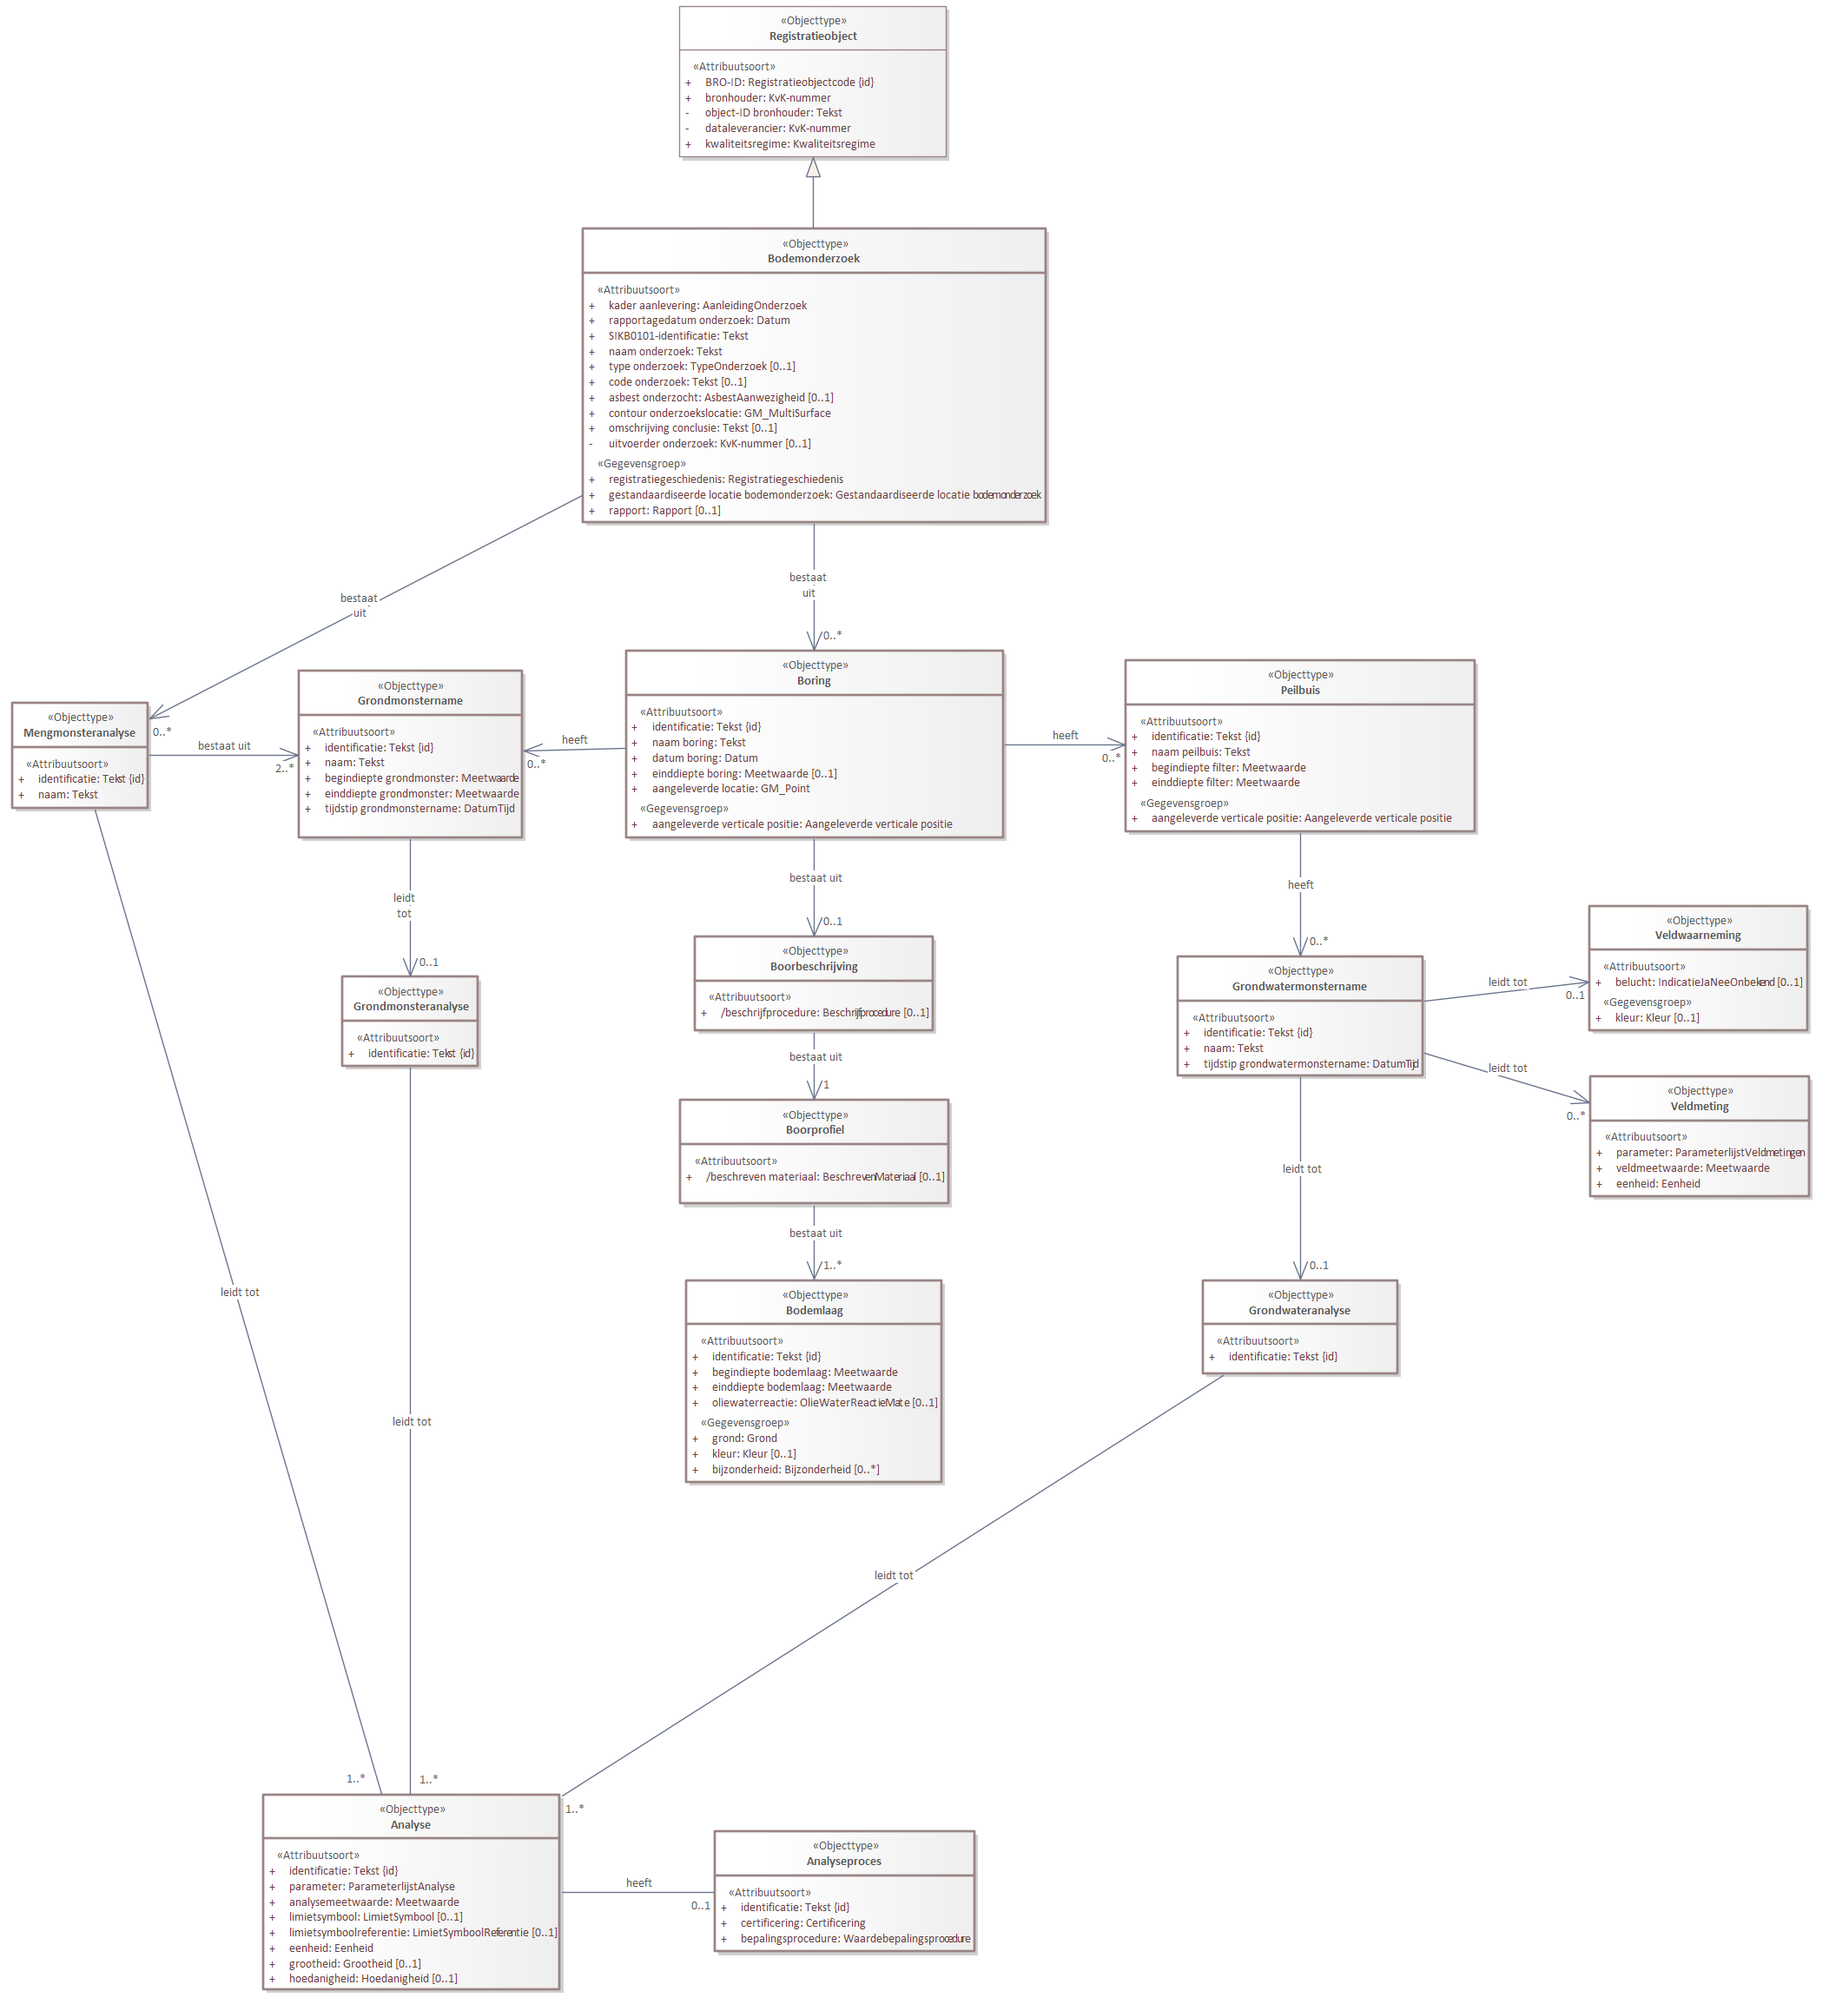
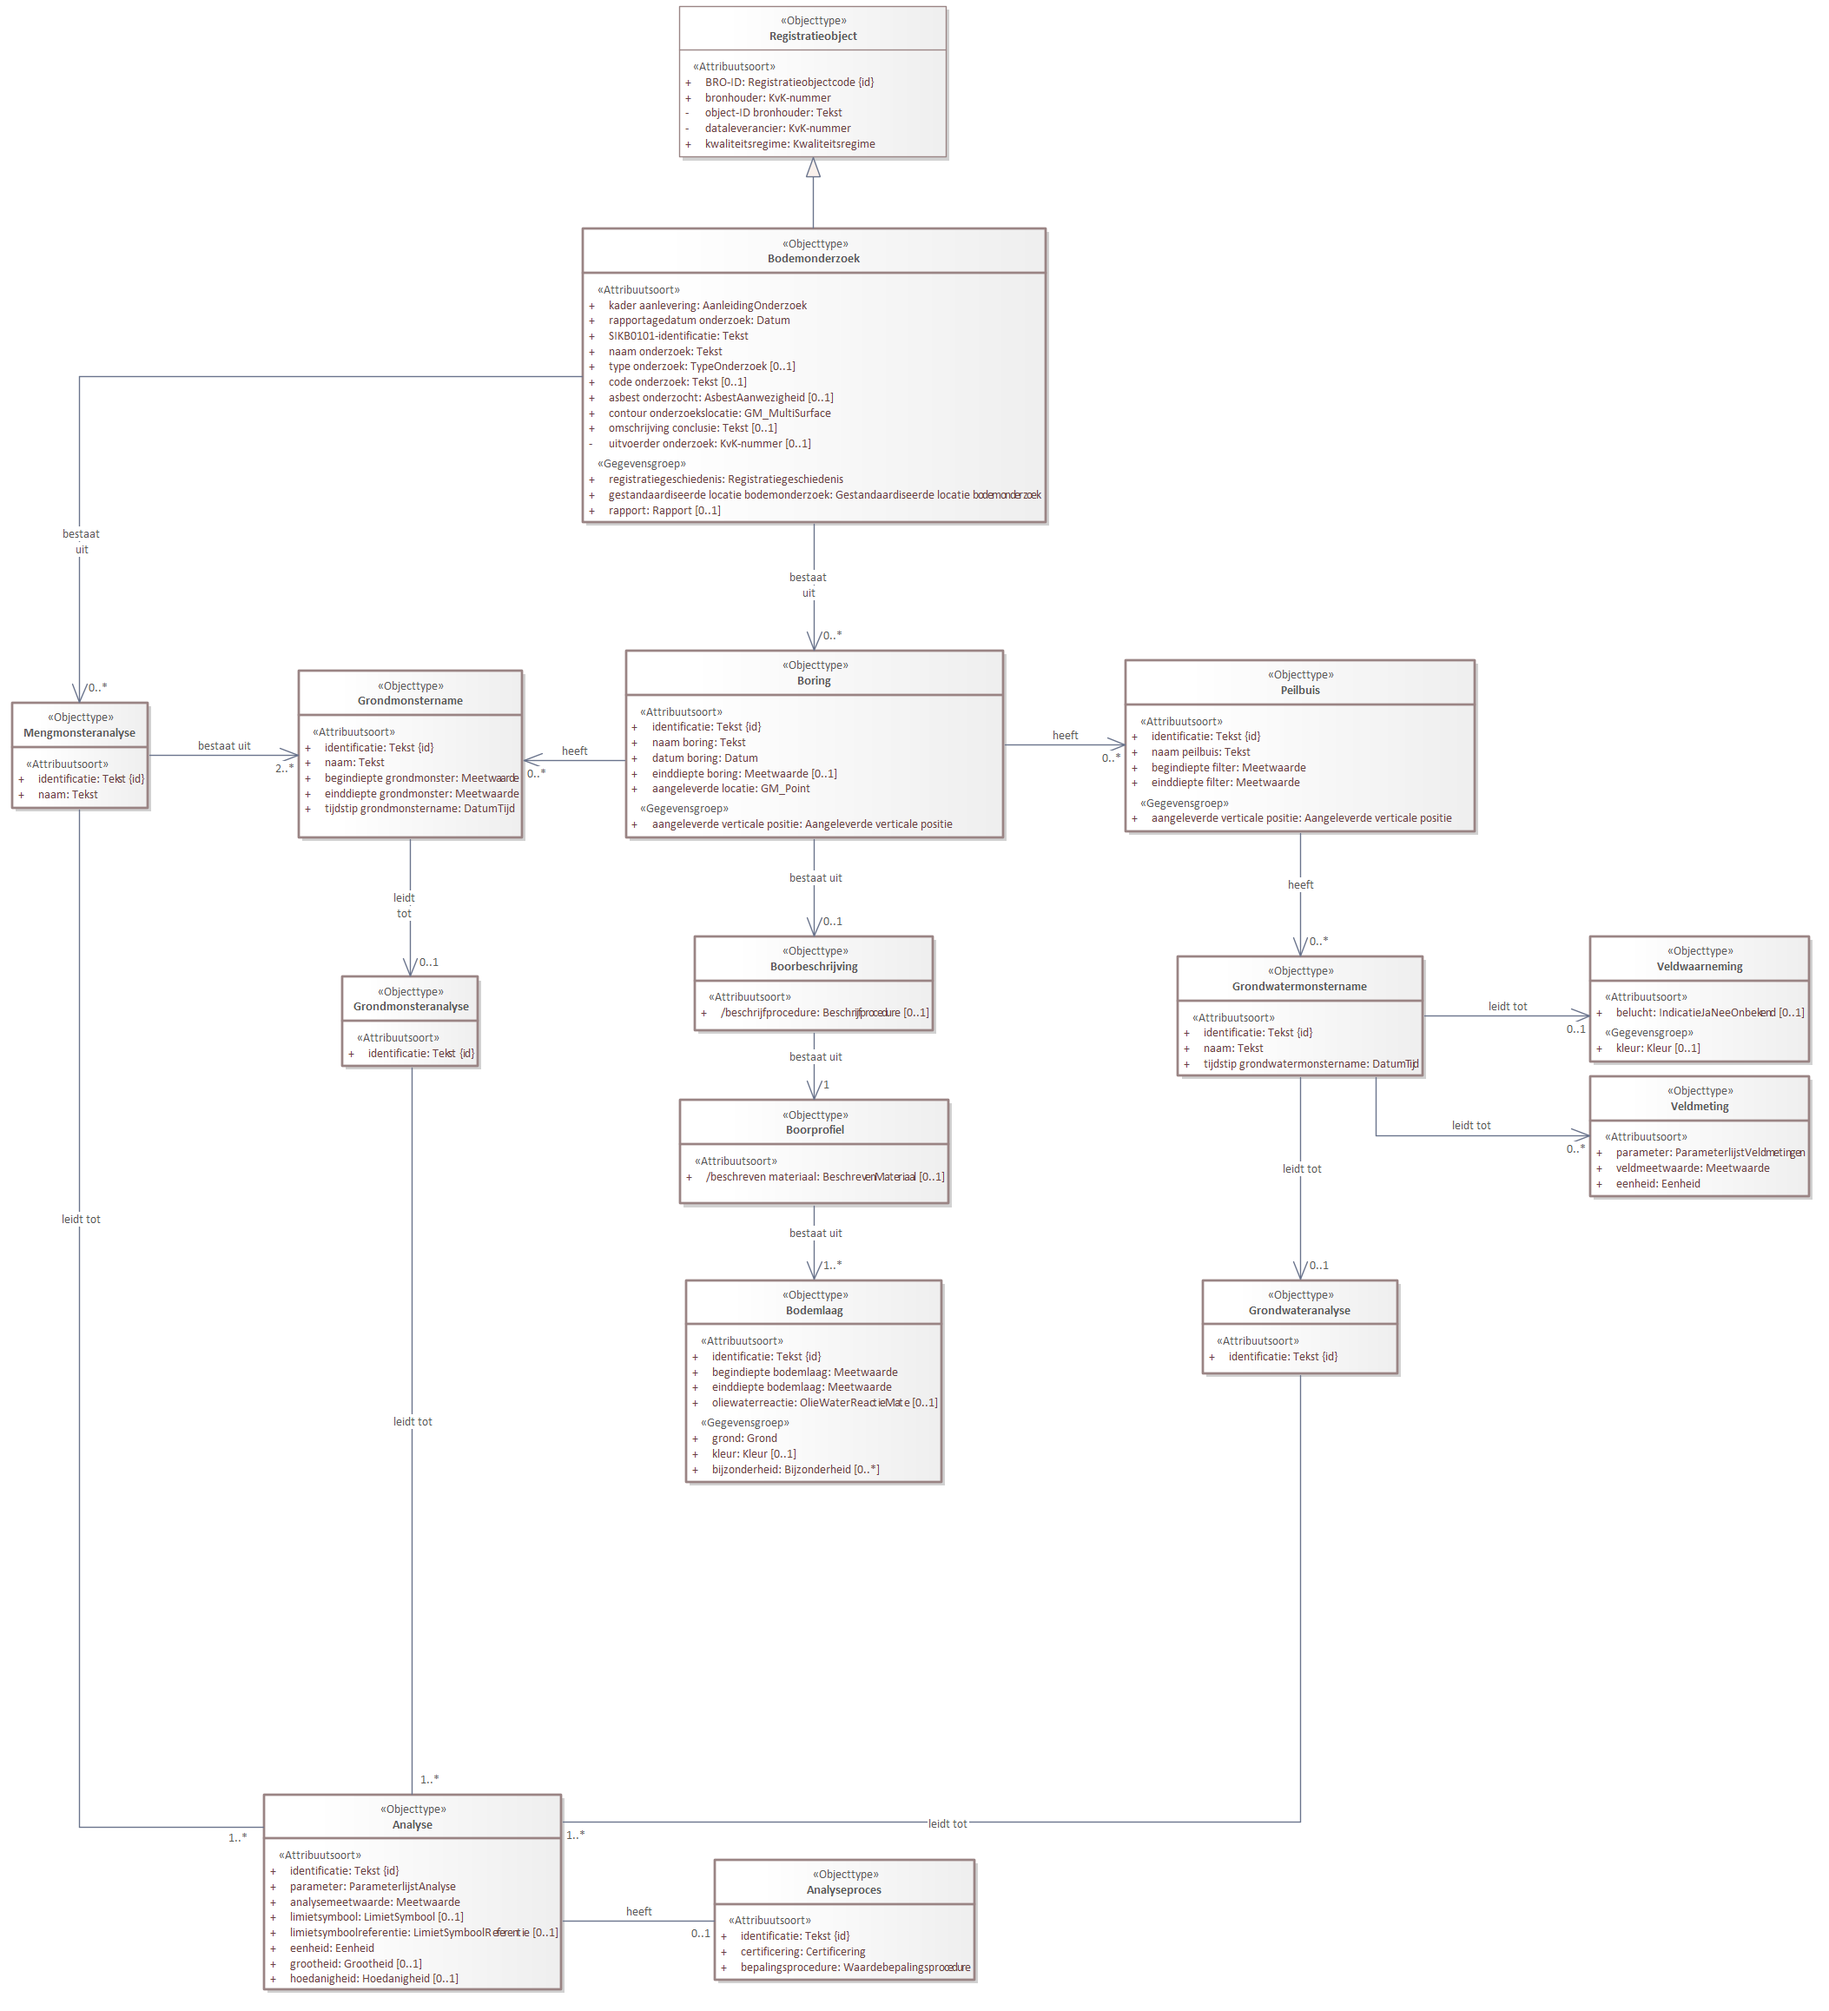
Conceptualmodel-MilieuhygienischbodemonderzoekSAD-0.2-1-20230126-20230622-112002

diff --git a/data/SAD-cat.msword.html b/data/SAD-cat.msword.html
@@ -15,7 +15,7 @@
    <body>
       <p>Conceptual model/Milieuhygienisch bodemonderzoek SAD/20230126</p>
       <p>Imvertor: 2.0.0</p>
-      <p>Model release: Conceptualmodel-MilieuhygienischbodemonderzoekSAD-0.2-1-20230126-20230622-111611</p>
+      <p>Model release: Conceptualmodel-MilieuhygienischbodemonderzoekSAD-0.2-1-20230126-20230622-112002</p>
       <hr>
       <section>
          <h1>Artikel 1 Definitie van registratieobject, entiteiten en attributen</h1>
@@ -66,7 +66,7 @@
          <section>
             <h2>Het domeinmodel</h2>
             <section id="">
-               <div class="imageinfo overview"><img src="Images/EAID_FABA90F8_223C_433d_BAE3_74F87B3DC220.png" usemap="#imagemap-EAID_FABA90F8_223C_433d_BAE3_74F87B3DC220" alt="Diagram &#xA;                        &#xA;                     "><map name="imagemap-EAID_FABA90F8_223C_433d_BAE3_74F87B3DC220"><area shape="rect" alt="Analyseproces" coords="823,2108,1123,2247" href="#graph_EAID_89FCADC6_B091_492b_94BD_37324C7637EA"><area shape="rect" alt="Analyse" coords="303,2066,645,2291" href="#graph_EAID_AE9CD58D_588C_44cf_A7B7_09EDB181B001"><area shape="rect" alt="Grondwateranalyse" coords="1385,1474,1610,1582" href="#graph_EAID_50237BC0_6FD9_482a_841F_A44137C00FCA"><area shape="rect" alt="Grondmonsteranalyse" coords="394,1124,551,1228" href="#graph_EAID_DFC0DB4F_7DC8_4920_917A_907819C6EC19"><area shape="rect" alt="Boorprofiel" coords="783,1266,1093,1386" href="#graph_EAID_6CF3D55E_1BD5_4108_BEA5_8B69EB2D2097"><area shape="rect" alt="Boorbeschrijving" coords="800,1078,1075,1187" href="#graph_EAID_080E44E6_527C_42db_BCF3_7400257377C2"><area shape="rect" alt="Veldmeting" coords="1831,1239,2084,1378" href="#graph_EAID_C348E314_A61B_43a0_AFED_083DA812EC5F"><area shape="rect" alt="Veldwaarneming" coords="1830,1043,2082,1187" href="#graph_EAID_A3A8A9F5_B12D_47e9_9D67_F12687999F0D"><area shape="rect" alt="Mengmonsteranalyse" coords="14,809,171,931" href="#graph_EAID_E7A3C99D_3348_4875_9BD5_4E0481E72C54"><area shape="rect" alt="Grondwatermonstername" coords="1356,1101,1639,1239" href="#graph_EAID_24B6DB20_4EA3_453f_B195_E642F22CC27C"><area shape="rect" alt="Grondmonstername" coords="344,772,602,965" href="#graph_EAID_8A8D6A0E_DAF9_415a_9AE7_09155A2C5869"><area shape="rect" alt="Peilbuis" coords="1296,760,1699,958" href="#graph_EAID_0075B243_E663_4ee7_9154_9D5DE12CCB21"><area shape="rect" alt="Bodemlaag" coords="790,1474,1085,1707" href="#graph_EAID_88CF9E45_3E0E_40da_96C1_2CDD80B69F6F"><area shape="rect" alt="Boring" coords="721,749,1156,965" href="#graph_EAID_40FFF5B9_99C5_4c21_9D72_A3D1DD3C857F"><area shape="rect" alt="Registratieobject" coords="782,7,1090,181" href="#graph_EAID_67DBE718_38E0_4ead_8649_72EA0B4A2355"><area shape="rect" alt="Bodemonderzoek" coords="671,263,1205,602" href="#graph_EAID_ABAADB49_C747_4775_A739_CC832CAD59F1"></map><p><b>Domeinmodel milieuhygienisch bodemonderzoek</b></p>
+               <div class="imageinfo overview"><img src="Images/EAID_FABA90F8_223C_433d_BAE3_74F87B3DC220.png" usemap="#imagemap-EAID_FABA90F8_223C_433d_BAE3_74F87B3DC220" alt="Diagram &#xA;                        &#xA;                     "><map name="imagemap-EAID_FABA90F8_223C_433d_BAE3_74F87B3DC220"><area shape="rect" alt="Analyseproces" coords="823,2141,1123,2280" href="#graph_EAID_89FCADC6_B091_492b_94BD_37324C7637EA"><area shape="rect" alt="Analyse" coords="304,2066,647,2291" href="#graph_EAID_AE9CD58D_588C_44cf_A7B7_09EDB181B001"><area shape="rect" alt="Grondwateranalyse" coords="1385,1474,1610,1582" href="#graph_EAID_50237BC0_6FD9_482a_841F_A44137C00FCA"><area shape="rect" alt="Grondmonsteranalyse" coords="394,1124,551,1228" href="#graph_EAID_DFC0DB4F_7DC8_4920_917A_907819C6EC19"><area shape="rect" alt="Boorprofiel" coords="783,1266,1093,1386" href="#graph_EAID_6CF3D55E_1BD5_4108_BEA5_8B69EB2D2097"><area shape="rect" alt="Boorbeschrijving" coords="800,1078,1075,1187" href="#graph_EAID_080E44E6_527C_42db_BCF3_7400257377C2"><area shape="rect" alt="Veldmeting" coords="1831,1239,2084,1378" href="#graph_EAID_C348E314_A61B_43a0_AFED_083DA812EC5F"><area shape="rect" alt="Veldwaarneming" coords="1831,1078,2084,1223" href="#graph_EAID_A3A8A9F5_B12D_47e9_9D67_F12687999F0D"><area shape="rect" alt="Mengmonsteranalyse" coords="14,809,171,931" href="#graph_EAID_E7A3C99D_3348_4875_9BD5_4E0481E72C54"><area shape="rect" alt="Grondwatermonstername" coords="1356,1101,1639,1239" href="#graph_EAID_24B6DB20_4EA3_453f_B195_E642F22CC27C"><area shape="rect" alt="Grondmonstername" coords="344,772,602,965" href="#graph_EAID_8A8D6A0E_DAF9_415a_9AE7_09155A2C5869"><area shape="rect" alt="Peilbuis" coords="1296,760,1699,958" href="#graph_EAID_0075B243_E663_4ee7_9154_9D5DE12CCB21"><area shape="rect" alt="Bodemlaag" coords="790,1474,1085,1707" href="#graph_EAID_88CF9E45_3E0E_40da_96C1_2CDD80B69F6F"><area shape="rect" alt="Boring" coords="721,749,1156,965" href="#graph_EAID_40FFF5B9_99C5_4c21_9D72_A3D1DD3C857F"><area shape="rect" alt="Registratieobject" coords="782,7,1090,181" href="#graph_EAID_67DBE718_38E0_4ead_8649_72EA0B4A2355"><area shape="rect" alt="Bodemonderzoek" coords="671,263,1205,602" href="#graph_EAID_ABAADB49_C747_4775_A739_CC832CAD59F1"></map><p><b>Domeinmodel milieuhygienisch bodemonderzoek</b></p>
                </div>
             </section>
          </section>

diff --git a/data/SAD-cat.respec.html b/data/SAD-cat.respec.html
@@ -44,7 +44,7 @@
       </section>
    <section id="">
       <h2>Het domeinmodel   </h2>
-      <div class="imageinfo overview"><img src="data/Images/EAID_FABA90F8_223C_433d_BAE3_74F87B3DC220.png" usemap="#imagemap-EAID_FABA90F8_223C_433d_BAE3_74F87B3DC220" alt="Diagram &#xA;                        &#xA;                     "><map name="imagemap-EAID_FABA90F8_223C_433d_BAE3_74F87B3DC220"><area shape="rect" alt="Analyseproces" coords="823,2108,1123,2247" href="#graph_EAID_89FCADC6_B091_492b_94BD_37324C7637EA"><area shape="rect" alt="Analyse" coords="303,2066,645,2291" href="#graph_EAID_AE9CD58D_588C_44cf_A7B7_09EDB181B001"><area shape="rect" alt="Grondwateranalyse" coords="1385,1474,1610,1582" href="#graph_EAID_50237BC0_6FD9_482a_841F_A44137C00FCA"><area shape="rect" alt="Grondmonsteranalyse" coords="394,1124,551,1228" href="#graph_EAID_DFC0DB4F_7DC8_4920_917A_907819C6EC19"><area shape="rect" alt="Boorprofiel" coords="783,1266,1093,1386" href="#graph_EAID_6CF3D55E_1BD5_4108_BEA5_8B69EB2D2097"><area shape="rect" alt="Boorbeschrijving" coords="800,1078,1075,1187" href="#graph_EAID_080E44E6_527C_42db_BCF3_7400257377C2"><area shape="rect" alt="Veldmeting" coords="1831,1239,2084,1378" href="#graph_EAID_C348E314_A61B_43a0_AFED_083DA812EC5F"><area shape="rect" alt="Veldwaarneming" coords="1830,1043,2082,1187" href="#graph_EAID_A3A8A9F5_B12D_47e9_9D67_F12687999F0D"><area shape="rect" alt="Mengmonsteranalyse" coords="14,809,171,931" href="#graph_EAID_E7A3C99D_3348_4875_9BD5_4E0481E72C54"><area shape="rect" alt="Grondwatermonstername" coords="1356,1101,1639,1239" href="#graph_EAID_24B6DB20_4EA3_453f_B195_E642F22CC27C"><area shape="rect" alt="Grondmonstername" coords="344,772,602,965" href="#graph_EAID_8A8D6A0E_DAF9_415a_9AE7_09155A2C5869"><area shape="rect" alt="Peilbuis" coords="1296,760,1699,958" href="#graph_EAID_0075B243_E663_4ee7_9154_9D5DE12CCB21"><area shape="rect" alt="Bodemlaag" coords="790,1474,1085,1707" href="#graph_EAID_88CF9E45_3E0E_40da_96C1_2CDD80B69F6F"><area shape="rect" alt="Boring" coords="721,749,1156,965" href="#graph_EAID_40FFF5B9_99C5_4c21_9D72_A3D1DD3C857F"><area shape="rect" alt="Registratieobject" coords="782,7,1090,181" href="#graph_EAID_67DBE718_38E0_4ead_8649_72EA0B4A2355"><area shape="rect" alt="Bodemonderzoek" coords="671,263,1205,602" href="#graph_EAID_ABAADB49_C747_4775_A739_CC832CAD59F1"></map><p><b>Domeinmodel milieuhygienisch bodemonderzoek</b></p>
+      <div class="imageinfo overview"><img src="data/Images/EAID_FABA90F8_223C_433d_BAE3_74F87B3DC220.png" usemap="#imagemap-EAID_FABA90F8_223C_433d_BAE3_74F87B3DC220" alt="Diagram &#xA;                        &#xA;                     "><map name="imagemap-EAID_FABA90F8_223C_433d_BAE3_74F87B3DC220"><area shape="rect" alt="Analyseproces" coords="823,2141,1123,2280" href="#graph_EAID_89FCADC6_B091_492b_94BD_37324C7637EA"><area shape="rect" alt="Analyse" coords="304,2066,647,2291" href="#graph_EAID_AE9CD58D_588C_44cf_A7B7_09EDB181B001"><area shape="rect" alt="Grondwateranalyse" coords="1385,1474,1610,1582" href="#graph_EAID_50237BC0_6FD9_482a_841F_A44137C00FCA"><area shape="rect" alt="Grondmonsteranalyse" coords="394,1124,551,1228" href="#graph_EAID_DFC0DB4F_7DC8_4920_917A_907819C6EC19"><area shape="rect" alt="Boorprofiel" coords="783,1266,1093,1386" href="#graph_EAID_6CF3D55E_1BD5_4108_BEA5_8B69EB2D2097"><area shape="rect" alt="Boorbeschrijving" coords="800,1078,1075,1187" href="#graph_EAID_080E44E6_527C_42db_BCF3_7400257377C2"><area shape="rect" alt="Veldmeting" coords="1831,1239,2084,1378" href="#graph_EAID_C348E314_A61B_43a0_AFED_083DA812EC5F"><area shape="rect" alt="Veldwaarneming" coords="1831,1078,2084,1223" href="#graph_EAID_A3A8A9F5_B12D_47e9_9D67_F12687999F0D"><area shape="rect" alt="Mengmonsteranalyse" coords="14,809,171,931" href="#graph_EAID_E7A3C99D_3348_4875_9BD5_4E0481E72C54"><area shape="rect" alt="Grondwatermonstername" coords="1356,1101,1639,1239" href="#graph_EAID_24B6DB20_4EA3_453f_B195_E642F22CC27C"><area shape="rect" alt="Grondmonstername" coords="344,772,602,965" href="#graph_EAID_8A8D6A0E_DAF9_415a_9AE7_09155A2C5869"><area shape="rect" alt="Peilbuis" coords="1296,760,1699,958" href="#graph_EAID_0075B243_E663_4ee7_9154_9D5DE12CCB21"><area shape="rect" alt="Bodemlaag" coords="790,1474,1085,1707" href="#graph_EAID_88CF9E45_3E0E_40da_96C1_2CDD80B69F6F"><area shape="rect" alt="Boring" coords="721,749,1156,965" href="#graph_EAID_40FFF5B9_99C5_4c21_9D72_A3D1DD3C857F"><area shape="rect" alt="Registratieobject" coords="782,7,1090,181" href="#graph_EAID_67DBE718_38E0_4ead_8649_72EA0B4A2355"><area shape="rect" alt="Bodemonderzoek" coords="671,263,1205,602" href="#graph_EAID_ABAADB49_C747_4775_A739_CC832CAD59F1"></map><p><b>Domeinmodel milieuhygienisch bodemonderzoek</b></p>
       </div>
    </section>
    <section id="">
